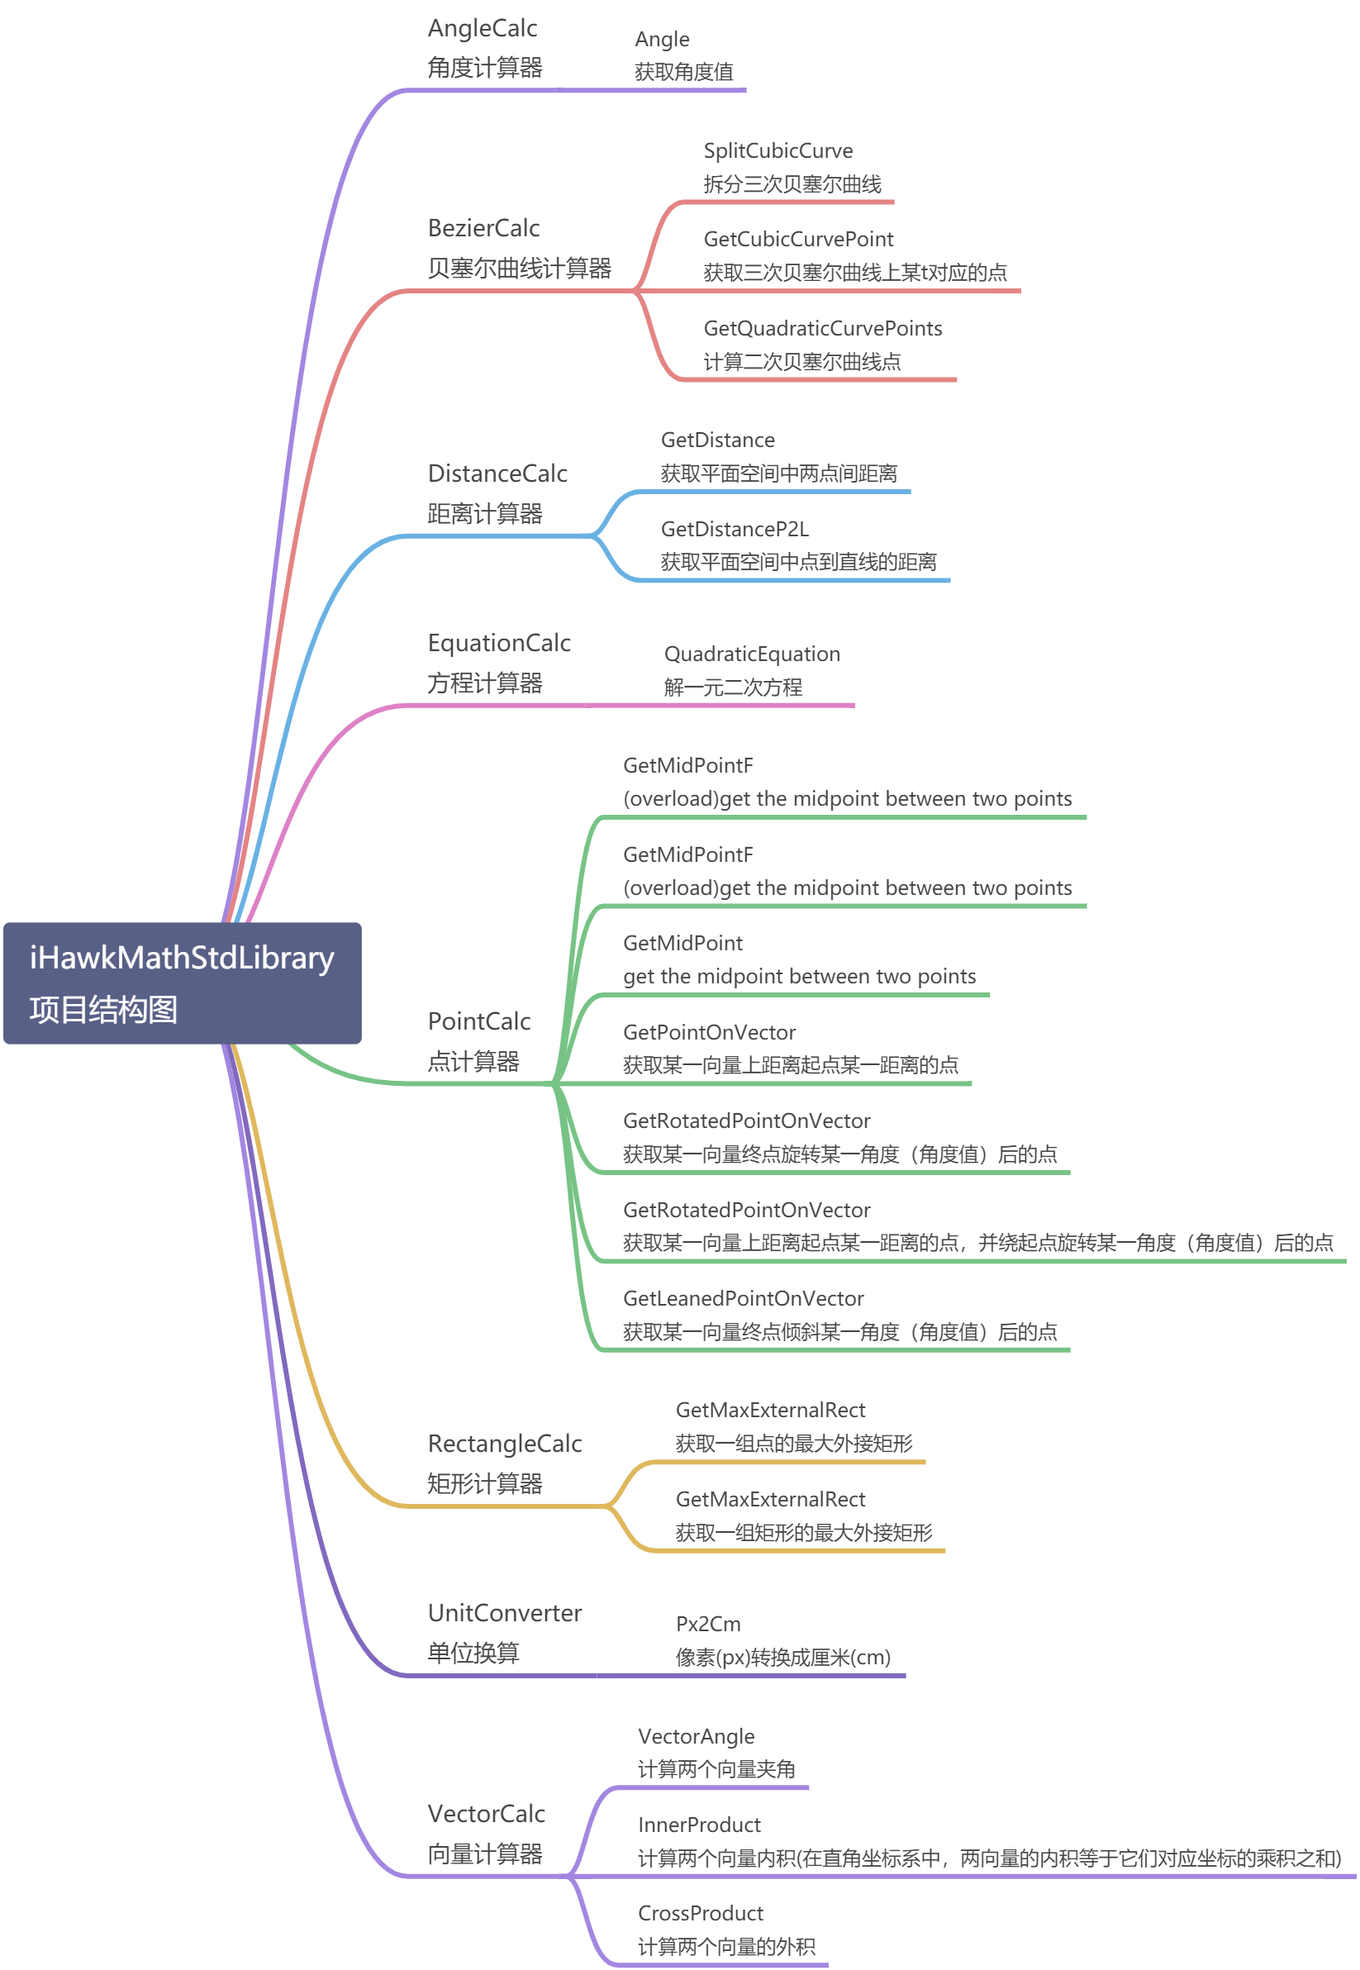
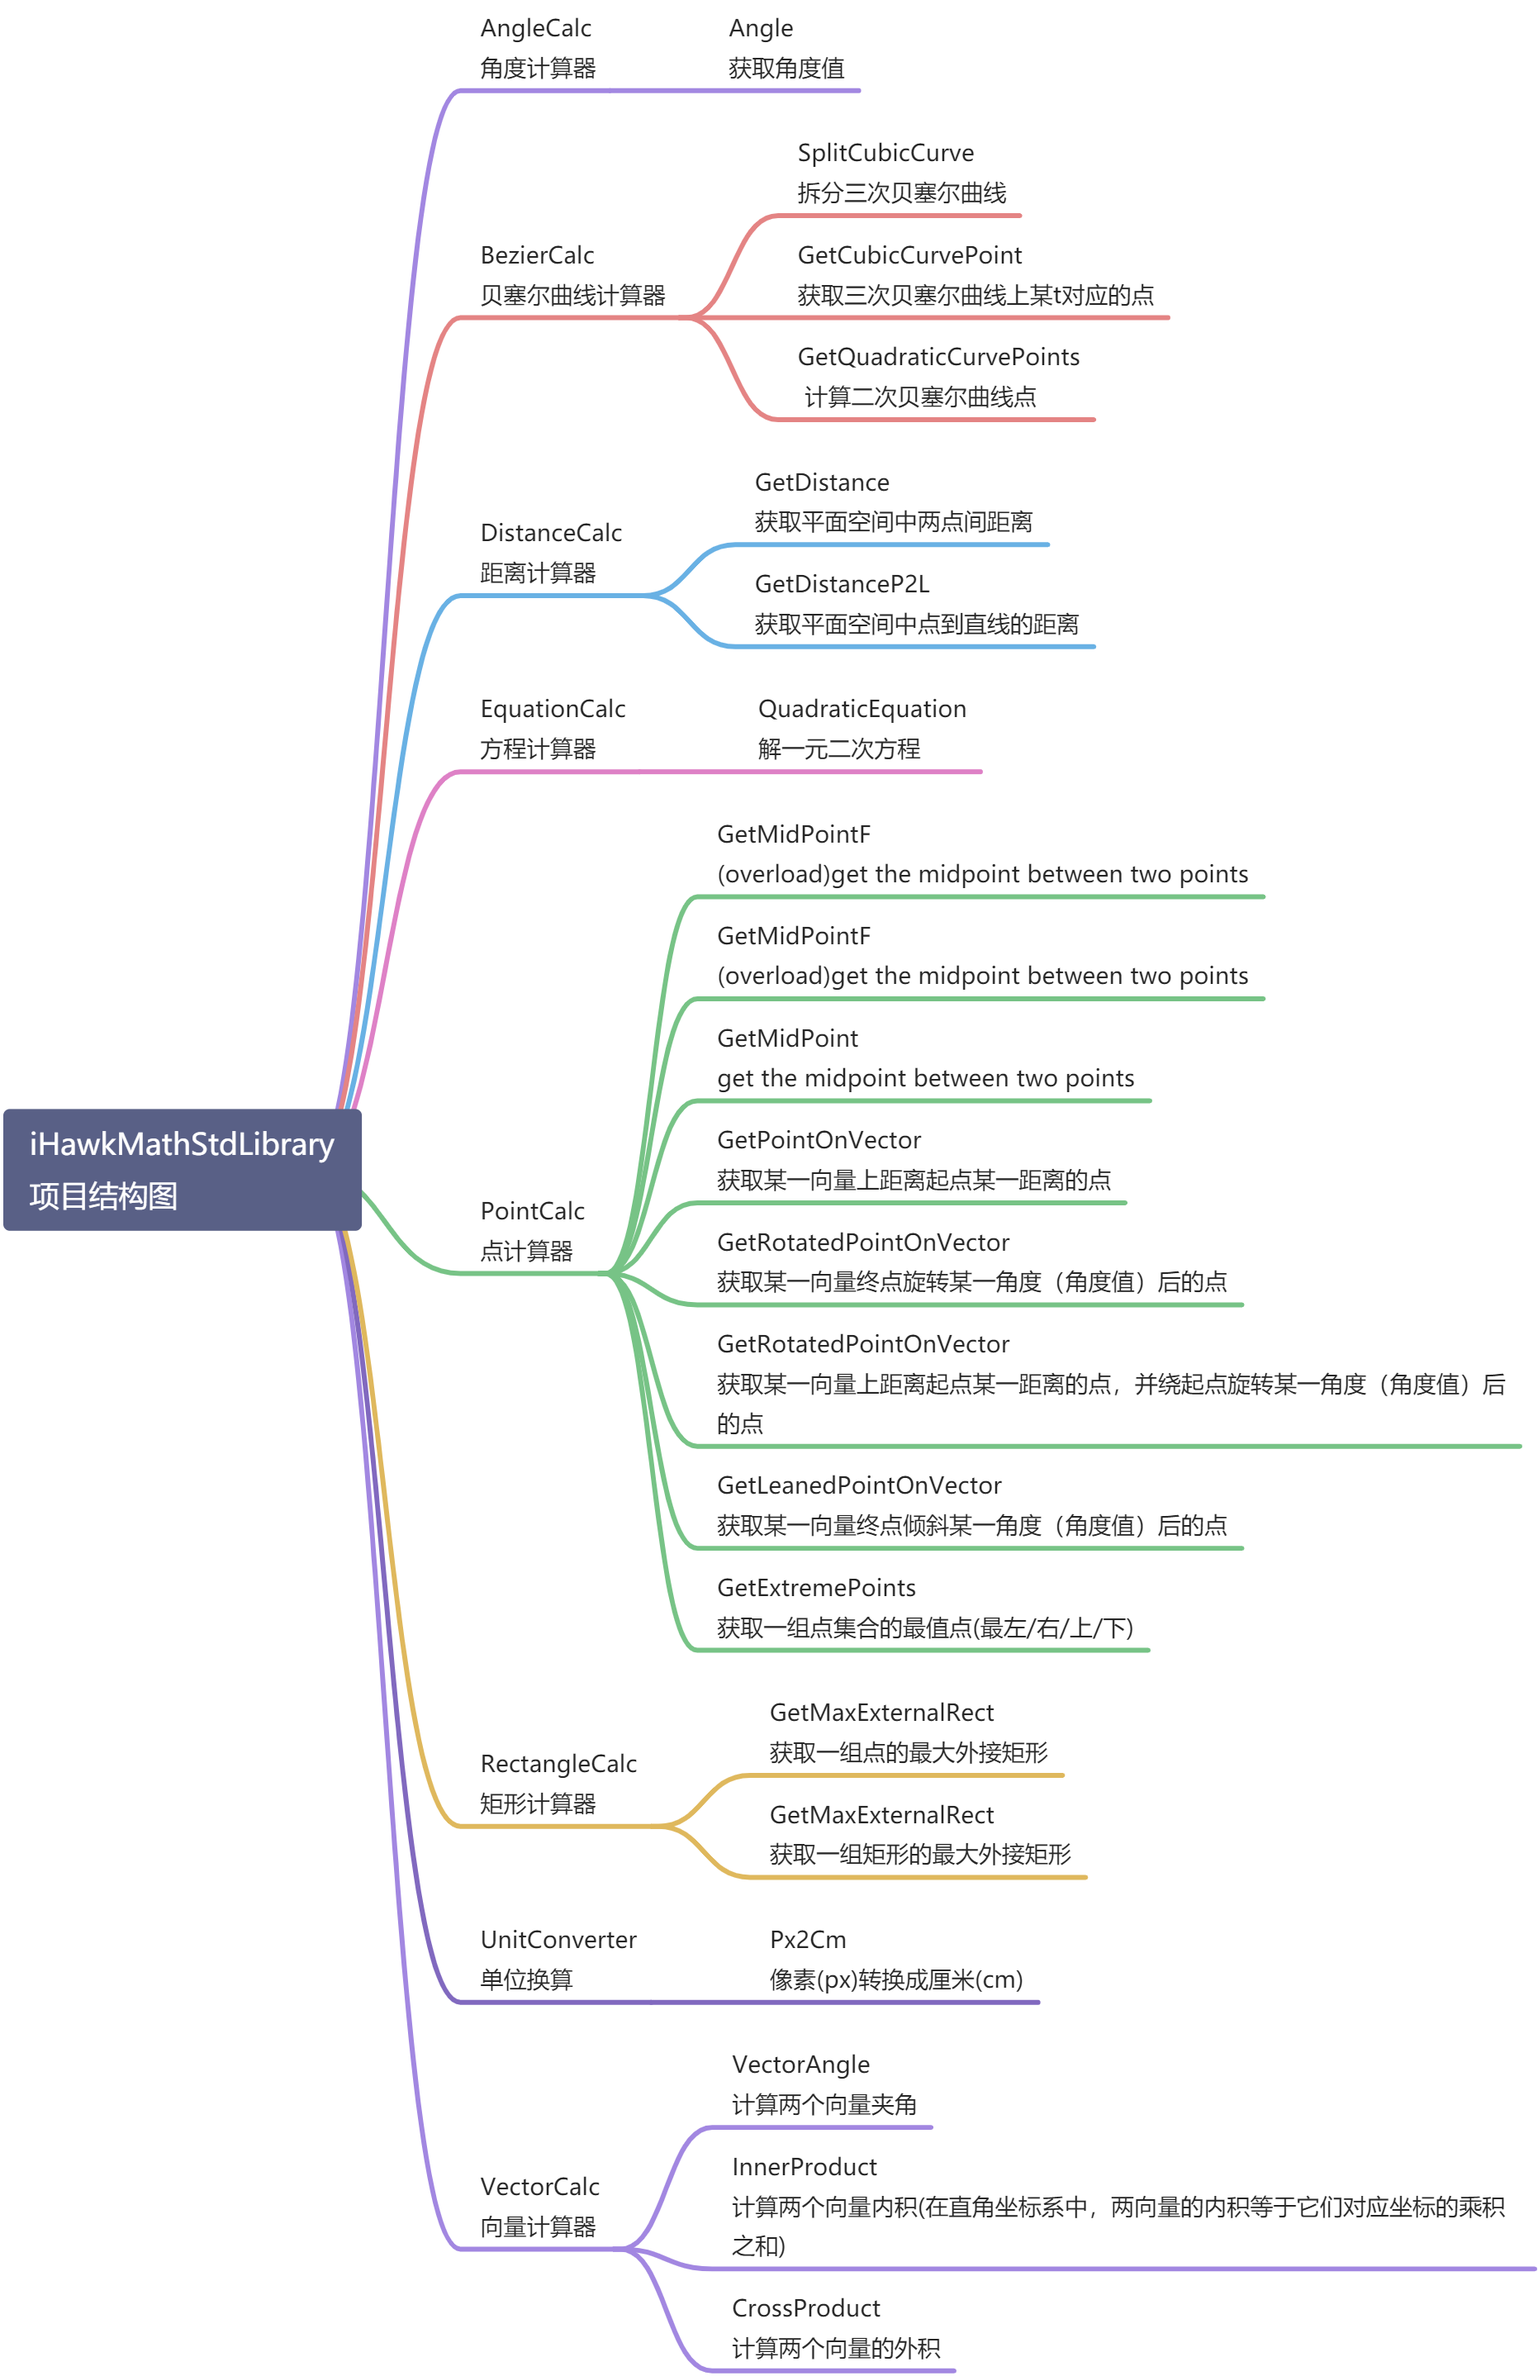
增加GetExtremePoints

Changed region(s): [[0.0, 0.0, 1.0, 1.0], [0.6817, 0.3414, 0.7126, 0.3725]]

diff --git a/iHawkMathStdLibrary/PointCalc.cs b/iHawkMathStdLibrary/PointCalc.cs
@@ -107,5 +107,25 @@ namespace iHawkMathStdLibrary
             if (Math.Abs(dn - 90) <= 0) return new PointF(pt2.X, pt22.Y); //垂直倾斜
             return PointF.Empty;
         }
+
+        /// <summary>
+        /// 获取一组点集合的最值点(最左/右/上/下)
+        /// </summary>
+        /// <param name="points">点集数组</param>
+        /// <returns>最值点数据(最左、最右、最上、最下)</returns>
+        public static PointF[] GetExtremePoints(PointF[] points)
+        {
+            if (points == null) return null;
+            PointF left = points[0], right = points[0], top = points[0], bottom = points[0];
+            foreach (var point in points)
+            {
+                if (point.X < left.X) left = point;
+                if (point.X > right.X) right = point;
+                if (point.Y < bottom.Y) bottom = point;
+                if (point.Y > top.Y) top = point;
+            }
+
+            return new[] {left, right, top, bottom};
+        }
     }
 }
